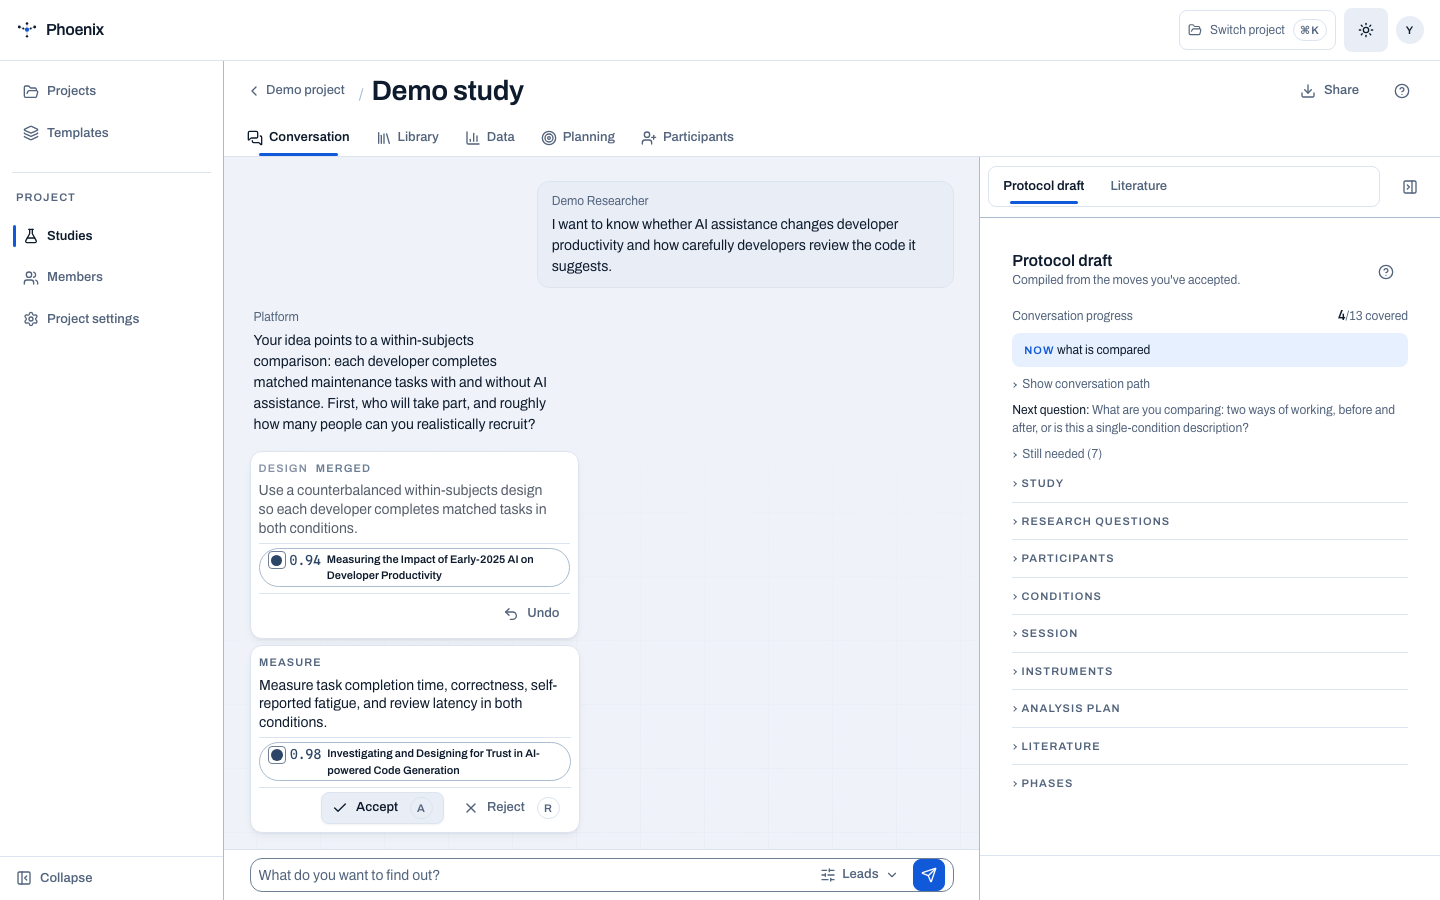
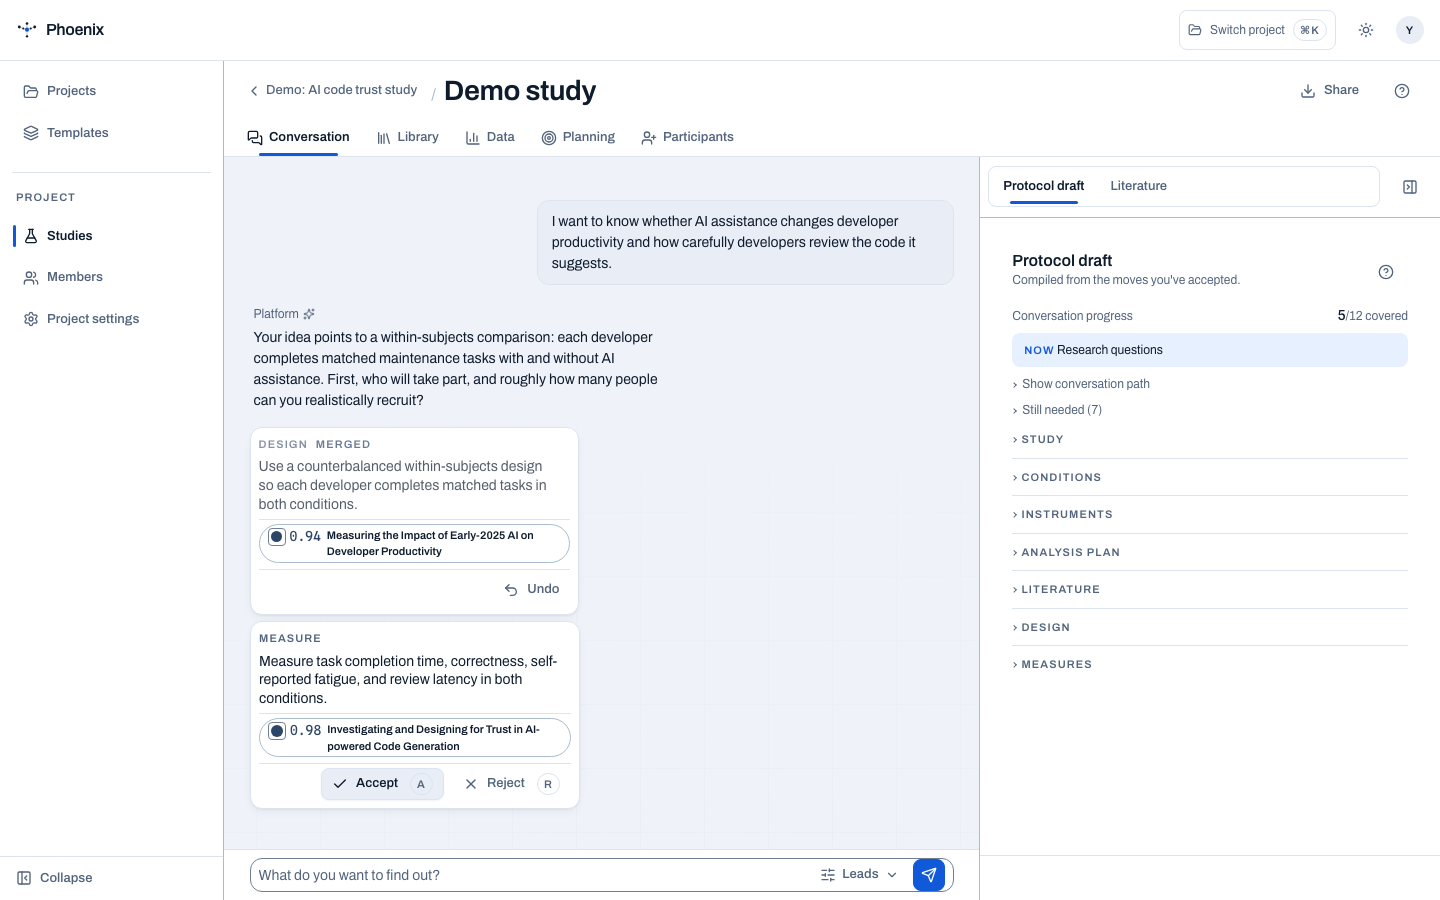
Restore conversation guidance and literature edges

diff --git a/platform/src/components/conversation/ConversationView.tsx b/platform/src/components/conversation/ConversationView.tsx
@@ -76,6 +76,10 @@ export function ConversationView({
    * opened, and never for a colleague's change arriving over the stream:
    * `a` and `r` decide a move from one unmodified keystroke. */
   const [focusMoveId, setFocusMoveId] = useState<string | null>(null);
+  /* A project-opening idea is already the researcher's first contribution. Keep
+   * the hand-off idempotent while the empty conversation is being replaced by
+   * the real LLM turn. */
+  const openingSubmitted = useRef<string | null>(null);
   /* How much the assistant drives this conversation (see lib/steer.ts).
    * Per-study and read lazily, so a reload lands back on the setting this
    * study was left at rather than on the default. */
@@ -132,11 +136,27 @@ export function ConversationView({
     let cancelled = false;
     loadConversation(studyId).then(({ turns: t, understanding: u }) => {
       if (!cancelled) {
-        const initial =
-          t.length === 1 && t[0].turnId === "opening"
-            ? [openingTurn(opening)]
-            : t;
-        setTurns(initial);
+        const emptyConversation = t.length === 1 && t[0].turnId === "opening";
+        const initial = emptyConversation ? [openingTurn(opening)] : t;
+        const openingText = opening.trim();
+        const openingKey = `${studyId}:${openingText}`;
+        if (
+          emptyConversation &&
+          openingText &&
+          openingSubmitted.current !== openingKey
+        ) {
+          openingSubmitted.current = openingKey;
+          setTurns([]);
+          /* Let the empty state settle for one frame, then hand the opening
+           * idea to the same streaming path as every later turn. The platform
+           * greeting is therefore generated by the configured assistant, not
+           * a static sentence that forces the researcher to start twice. */
+          queueMicrotask(() => {
+            if (!cancelled) void sendText(openingText);
+          });
+        } else {
+          setTurns(initial);
+        }
         setUnderstanding(u);
         setLive(true);
       }
@@ -149,7 +169,7 @@ export function ConversationView({
     return () => {
       cancelled = true;
     };
-  }, [studyId]);
+  }, [opening, studyId]);
 
   const allMoves: DesignMove[] = useMemo(
     () => turns.flatMap((t) => t.moves),

diff --git a/platform/src/components/conversation/StreamingTurn.tsx b/platform/src/components/conversation/StreamingTurn.tsx
@@ -40,25 +40,27 @@ export function StreamingTurn({
            * is the whole failure the keyword assistant used to cause. */
           isUnavailable && "border-dashed bg-transparent text-text-muted")}
       >
-        <span className="mb-1 flex items-center gap-1 type-caption text-text-muted">
-          {isUnavailable ? "Not answered" : turn.author}
-          {isPlatform && turn.source === "llm" && (
-            <span
-              className="inline-flex items-center gap-0.5"
-              data-agent-status="llm-guided"
-              title="Generated by the configured LLM provider"
-            >
-              <Sparkles className="size-3" aria-hidden />
-            </span>
-          )}
-          {isUnavailable && (
-            <CloudOff
-              className="size-3"
-              data-agent-status="model-unavailable"
-              aria-hidden
-            />
-          )}
-        </span>
+        {isPlatform && (
+          <span className="mb-1 flex items-center gap-1 type-caption text-text-muted">
+            {isUnavailable ? "Not answered" : turn.author}
+            {turn.source === "llm" && (
+              <span
+                className="inline-flex items-center gap-0.5"
+                data-agent-status="llm-guided"
+                title="Generated by the configured LLM provider"
+              >
+                <Sparkles className="size-3" aria-hidden />
+              </span>
+            )}
+            {isUnavailable && (
+              <CloudOff
+                className="size-3"
+                data-agent-status="model-unavailable"
+                aria-hidden
+              />
+            )}
+          </span>
+        )}
         <p className="whitespace-pre-wrap">{turn.text}</p>
       </div>
 

diff --git a/platform/src/lib/constellationView.ts b/platform/src/lib/constellationView.ts
@@ -217,6 +217,7 @@ export const MAX_SUGGESTIONS_PER_ANCHOR = 12;
 export const MAX_SUGGESTIONS_PER_RELATION = 6;
 
 const RELATION_ORDER = ["references", "citations", "recommendations"] as const;
+const CORPUS_DISCOVERY_KIND = "harvested-via";
 
 type CuratableNode = {
   paperRef: string;
@@ -243,9 +244,20 @@ export function curateGraph<
   const ingested = graph.nodes.filter((node) => node.ingested);
   const ingestedRefs = new Set(ingested.map((node) => node.paperRef));
   const nodesByRef = new Map(graph.nodes.map((node) => [node.paperRef, node]));
-  const supportedEdges = graph.edges.filter((edge) =>
-    RELATION_ORDER.includes(edge.kind as (typeof RELATION_ORDER)[number]),
-  );
+  const supportedEdges = graph.edges.flatMap((edge) => {
+    if (RELATION_ORDER.includes(edge.kind as (typeof RELATION_ORDER)[number])) {
+      return [edge];
+    }
+    /* Corpus matching stores provenance as `harvested-via`: a Tier B paper was
+     * discovered through one of the study's papers. That is not a citation,
+     * but it is a useful recommendation edge for the visual literature map.
+     * Translate it only at this presentation boundary; matching and the API
+     * retain the precise internal kind. */
+    if (edge.kind === CORPUS_DISCOVERY_KIND) {
+      return [{ ...edge, kind: "recommendations" } as E];
+    }
+    return [];
+  });
   const directEdges = supportedEdges.filter(
     (edge) => ingestedRefs.has(edge.src) && ingestedRefs.has(edge.dst),
   );

diff --git a/platform/src/styles/tokens.css b/platform/src/styles/tokens.css
@@ -160,11 +160,10 @@
   --measure-reading: 44rem;
   --measure-work: 60rem;
   --measure-wide: 72rem;
-  /* Evidence cards are a deliberate inset in the conversation, not a second
-   * full-width panel. Keeping them below half of a typical chat column leaves
-   * the surrounding thread visible and makes the source chip feel like proof
-   * attached to a decision rather than a dashboard tile. */
-  --measure-bubble: 38ch;
+  /* Conversation prose gets enough measure to sit comfortably beside the
+   * researcher's wider bubble. Decision sheets keep their own narrower measure
+   * below, so evidence still reads as an attached choice rather than a panel. */
+  --measure-bubble: 54ch;
   --measure-decision: 36ch;
 
   /* The spacing rhythm  -  a Surface's gutter, the gap between titled sections,

diff --git a/middleware/src/middleware/design_assistant.py b/middleware/src/middleware/design_assistant.py
@@ -462,11 +462,19 @@ def _directive(stance: dict, state: dict | None = None) -> str:
             "next question is: "
             + (stance["nextQuestion"] or "(none)")
         )
-        lines.append(
-            "ONE STEP ONLY. This turn should help the researcher answer that "
-            "first missing facet. Reflect their idea briefly, then ask that one "
-            "question. Do not add a different protocol move in the same turn."
-        )
+        if stance["intent"] == "followup-question":
+            lines.append(
+                "Answer the question before doing anything else. Do not attach "
+                "a new design move to this explanation."
+            )
+        else:
+            lines.append(
+                "ONE STEP ONLY. Help the researcher answer the first missing "
+                "facet. Reflect their idea briefly, then ask that one question. "
+                "If their latest message contains one concrete task, measure, "
+                "research question, or protocol value, record only that safe "
+                "fact as one move. Do not propose a design shape yet."
+            )
     else:
         lines.append(
             "You now know who takes part, what they do, what is compared, "
@@ -504,11 +512,25 @@ def _directive(stance: dict, state: dict | None = None) -> str:
     return "\n\n".join(lines)
 
 
+def _move_section(move: ProposedMove) -> str:
+    """Return the protocol section a move would touch, when it has one."""
+    if move.kind == "choose-template" or move.kind == "merge-templates":
+        return "design"
+    patch = move.patch or {}
+    if patch.get("section"):
+        return str(patch["section"])
+    path = patch.get("path")
+    if isinstance(path, list) and path:
+        return str(path[0])
+    return (move.target or "").removeprefix("protocol.").split(".")[0]
+
+
 def _permitted_moves(
-    moves: tuple[ProposedMove, ...], stance: dict
+    moves: tuple[ProposedMove, ...], stance: dict, state: dict | None = None
 ) -> tuple[ProposedMove, ...]:
     """Apply the stance to a script's moves  -  the enforcement half."""
     kept = []
+    assist_move_seen = False
     for move in moves:
         if not stance["mayProposeMoves"] and move.kind != "caution":
             log.info(
@@ -526,6 +548,18 @@ def _permitted_moves(
                 "held back %s: the study isn't understood yet", move.kind
             )
             continue
+        if stance.get("steer") == "assists" and move.kind != "caution":
+            # Assists is the structural-gap stop: it may fill one section the
+            # draft has not covered, but it should not keep pitching choices the
+            # researcher has already settled. The model is still responsible
+            # for selecting the best move; this is the server-side boundary.
+            if _move_section(move) in set((state or {}).get("filled") or []):
+                log.info("held back %s: assists only fills an empty section", move.kind)
+                continue
+            if assist_move_seen:
+                log.info("held back %s: assists offers one move at a time", move.kind)
+                continue
+            assist_move_seen = True
         kept.append(move)
     return tuple(kept)
 
@@ -833,7 +867,7 @@ def _assemble(
     retrieved: set[str] = set()
 
     moves = []
-    for i, sm in enumerate(_permitted_moves(turn.moves, stance)):
+    for i, sm in enumerate(_permitted_moves(turn.moves, stance, state)):
         grounding = _resolve_grounding(s, sm.refs)
         if sm.kind == "choose-template" and not grounding and sm.patch:
             tid = sm.patch.get("templateId")

diff --git a/middleware/tests/test_steer_level.py b/middleware/tests/test_steer_level.py
@@ -12,6 +12,12 @@ class _Move:
         self.kind = kind
 
 
+class _SectionMove(_Move):
+    def __init__(self, kind: str, section: str) -> None:
+        super().__init__(kind)
+        self.patch = {"section": section}
+
+
 def _stance(**over) -> dict:
     base = {
         "intent": "statement",
@@ -84,11 +90,43 @@ def test_a_talkative_level_keeps_every_move():
     assert [m.kind for m in kept] == ["choose-template", "add-measure", "caution"]
 
 
+def test_assists_only_keeps_one_move_for_an_empty_section():
+    moves = (
+        _SectionMove("add-measure", "measures"),
+        _SectionMove("add-rq", "researchQuestions"),
+        _Move("caution"),
+    )
+    kept = _permitted_moves(
+        moves,
+        _stance(steer="assists"),
+        {"filled": ["measures"]},
+    )
+    assert [m.kind for m in kept] == ["add-rq", "caution"]
+
+
 def test_the_directive_carries_both_levers_into_the_prompt():
     """The model is told who it is speaking to AND how much to drive, in that order."""
     directive = _directive(_stance(steer="checks", profile="experienced"))
     assert elicitation.PROFILES["experienced"]["guidance"] in directive
     assert elicitation.STEER_LEVELS["checks"]["guidance"] in directive
+
+
+def test_missing_facets_still_allow_one_safe_concrete_move():
+    stance = _stance(
+        intent="describe",
+        steer="leads",
+        understanding={
+            "missing": ["task"],
+            "missingLabels": ["the programming task"],
+            "known": ["population"],
+            "facetsNeeded": 5,
+        },
+        nextQuestion="What will participants do?",
+        mayProposeDesign=False,
+    )
+    directive = _directive(stance)
+    assert "record only that safe fact as one move" in directive
+    assert "Do not add a different protocol move" not in directive
 
 
 def test_the_dial_never_changes_the_method():
